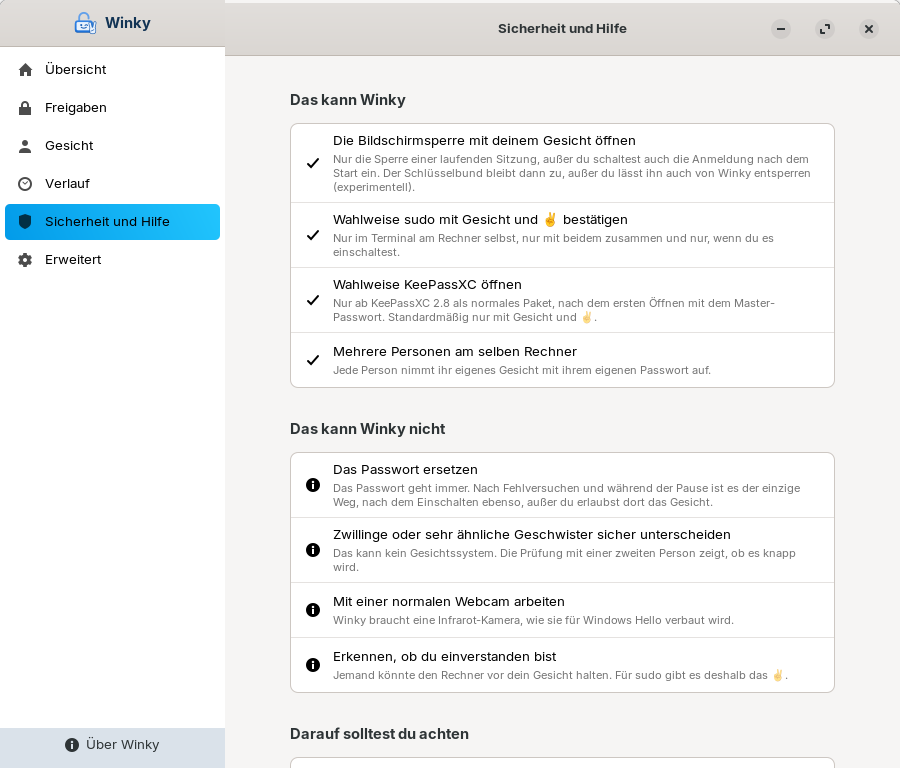
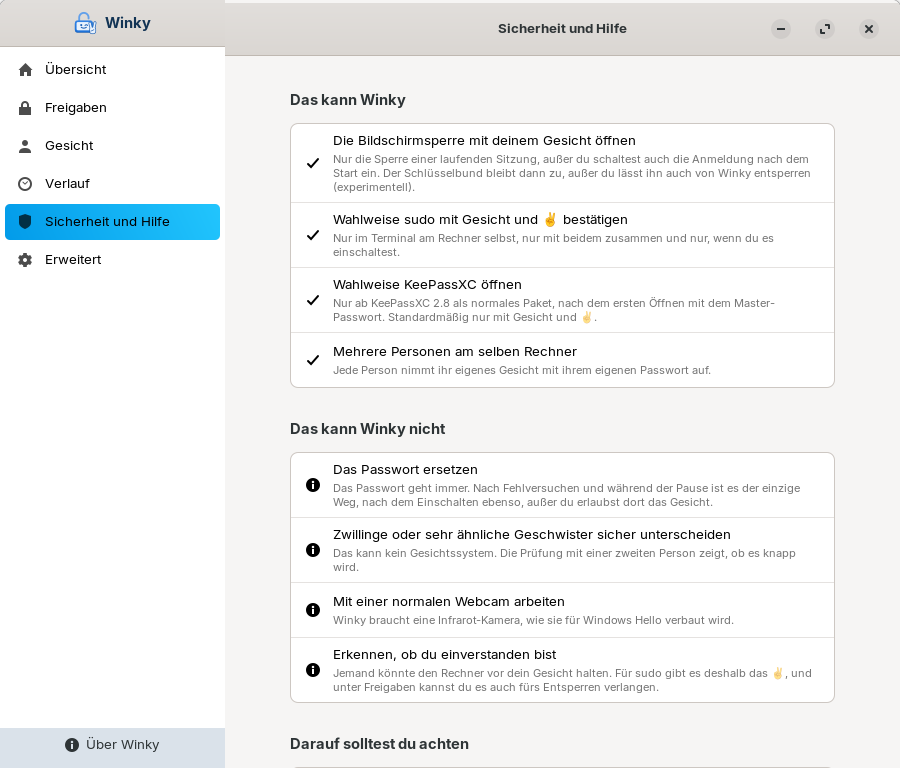
0.13.0: Doku, Versionshinweise, Veröffentlichungsdatum

Changed region(s): [[0.3422, 0.8438, 0.9022, 0.9062], [0.3111, 0.9375, 0.5289, 1.0]]

diff --git a/src/app/gesicht_app.py b/src/app/gesicht_app.py
@@ -1816,7 +1816,7 @@ SICHERHEIT = [
          _("Winky needs an infrared camera, like the ones built in for Windows Hello.")),
         (_("Tell whether you agree"),
          _("Someone could hold the computer up to your face. That’s why sudo also needs the "
-           "✌.")),
+           "✌, and under Unlocks you can require it for unlocking too.")),
     ]),
     (_("What to watch out for"), None, "dialog-warning-symbolic", [
         (_("Lock the screen when you walk away"),

diff --git a/SICHERHEIT.md b/SICHERHEIT.md
@@ -6,7 +6,7 @@ Winky ist ein **Komfort** für die Bildschirmsperre, kein Ersatz für ein gutes 
 keine Festplattenverschlüsselung. Diese Seite beschreibt ehrlich, wogegen Winky schützt,
 wogegen nicht, und welche Risiken in der Benutzung und in der Technik selbst stecken.
 
-Stand: Version 0.11.0. Winky wurde von einer Einzelperson mit KI-Unterstützung entwickelt
+Stand: Version 0.13.0. Winky wurde von einer Einzelperson mit KI-Unterstützung entwickelt
 und ist **nicht unabhängig geprüft**. Die Erkennung wurde an einem Laptop mit einer
 Windows-Hello-Kamera mit der eigenen und einer weiteren Person gemessen und an einem
 Microsoft Surface Laptop 4 ausprobiert.
@@ -33,7 +33,7 @@ Microsoft Surface Laptop 4 ausprobiert.
 | Foto oder Video von dir auf Handy oder Bildschirm | Bildschirme sind im Infrarot-Bild schwarz. In der Messung wurde ein Handyfoto gar nicht als Gesicht erkannt. | geschützt |
 | Ausdruck deines Gesichts, der im Infrarot sichtbar ist, oder eine Maske | Nicht getestet. Winky hat keine echte Lebenderkennung. | **nicht sicher geschützt** |
 | Zwilling oder sehr ähnliches Geschwister | Kein Gesichtssystem unterscheidet das zuverlässig. | **nicht geschützt** |
-| Jemand hält dir den Rechner vors Gesicht oder du schläfst | Winky prüft nicht, ob du einverstanden bist oder die Augen offen hast. | **nicht geschützt** (für sudo hilft das ✌) |
+| Jemand hält dir den Rechner vors Gesicht oder du schläfst | Winky prüft nicht, ob du einverstanden bist oder die Augen offen hast. | ab Werk **nicht geschützt**; geschützt mit „Entsperren nur mit ✌“ (sudo braucht das ✌ immer) |
 | Rechner wird ausgeschaltet gestohlen | Winky spielt keine Rolle. Ohne verschlüsselte Festplatte sind die Daten offen. | Sache der Festplattenverschlüsselung |
 | Rechner wird gesperrt, aber eingeschaltet gestohlen | Der Dieb braucht dein Gesicht (oder siehe Ausdruck/Maske). | wie oben |
 | Fernzugriff (SSH) | Winky ist nicht beteiligt, es gilt das Passwort bzw. der SSH-Schlüssel. | unverändert |
@@ -59,8 +59,9 @@ Das hast du selbst in der Hand:
    Befehle zeigst, die du selbst gerade getippt hast. Erscheint eine Winky-Meldung, die du
    nicht erwartest: kein ✌, einfach ignorieren.
 5. **Erzwungenes Entsperren.** Wer dich zwingen kann, in die Kamera zu schauen, öffnet
-   die Bildschirmsperre. Wo das ein Thema ist, schalte Winky aus (Pause oder
-   Deinstallieren).
+   die Bildschirmsperre. Gegen jemanden, der dir einfach den Rechner vors Gesicht hält,
+   schalte „Entsperren nur mit ✌“ ein. Gegen echten Zwang hilft nur, Winky auszuschalten
+   (Pause oder Deinstallieren).
 6. **KeePassXC mit dem Gesicht.** Standardmäßig verlangt Winky für KeePassXC Gesicht
    **und** ✌, wie bei sudo. Schaltest du das ✌ ab, öffnet dein Gesicht allein die
    Passwort-Datenbank: Wer an deinem entsperrten Rechner auf „Entsperren“ klickt, während
@@ -163,6 +164,11 @@ Das lässt sich durch Bedienung nicht abstellen:
   Socket und logind (lokale, aktive, grafische Sitzung an seat0).
 - **Root-eigene Daten:** Konfiguration, Vorlagen, Schalter und Freigaben werden ohne
   Verknüpfungen geöffnet und auf Besitzer, Rechte und Größe geprüft.
+- **Gesicht ergänzen nur mit dir im Bild:** Eine Ergänzung wird nur gespeichert, wenn Winky
+  dich in der Aufnahme mindestens dreimal an der eingestellten Schwelle erkennt. Bilder, die
+  mehr als 0,20 darunter liegen, werden verworfen; setzt sich zwischendurch jemand anderes vor
+  die Kamera, landet er nicht in deinen Daten. Höchstens drei benannte Ergänzungen mit je bis
+  zu 11 Bildern; die ursprüngliche Aufnahme bleibt immer erhalten.
 - **Fehlversuche:** Nach fünf erkannten, aber fremden Gesichtern bleibt das Gesicht bis zur
   nächsten Passwortanmeldung gesperrt. sudo: nach drei unbestätigten Anfragen zehn Minuten.
 - **Schrittweise Freigabe:** Einschalten erst nach erfolgreichem Test; gesperrt, wenn die

diff --git a/SECURITY.md b/SECURITY.md
@@ -6,7 +6,7 @@ Winky is a **convenience** for the lock screen, not a replacement for a good pas
 disk encryption. This page honestly describes what Winky protects against, what it does not
 protect against, and which risks lie in its use and in the technology itself.
 
-As of version 0.11.0. Winky was developed by one person with AI assistance and has **not been
+As of version 0.13.0. Winky was developed by one person with AI assistance and has **not been
 independently reviewed**. Recognition was measured on one laptop with a Windows Hello
 camera with the owner and one other person, and tried on a Microsoft Surface Laptop 4.
 
@@ -32,7 +32,7 @@ camera with the owner and one other person, and tried on a Microsoft Surface Lap
 | Photo or video of you on a phone or screen | Screens are black in the infrared image. In the measurement, a phone photo was not even detected as a face. | protected |
 | A printout of your face that is visible in infrared, or a mask | Not tested. Winky has no real liveness detection. | **not reliably protected** |
 | Twin or very similar sibling | No face recognition system tells them apart reliably. | **not protected** |
-| Someone holds the computer up to your face, or you are asleep | Winky does not check whether you agree or have your eyes open. | **not protected** (for sudo, the ✌ helps) |
+| Someone holds the computer up to your face, or you are asleep | Winky does not check whether you agree or have your eyes open. | **not protected** by default; protected with “Unlock only with ✌” (sudo always needs the ✌) |
 | Computer is stolen while switched off | Winky plays no role. Without an encrypted disk, the data is open. | a matter for disk encryption |
 | Computer is stolen while locked but switched on | The thief needs your face (or see printout/mask). | as above |
 | Remote access (SSH) | Winky is not involved; the password or SSH key applies. | unchanged |
@@ -57,7 +57,9 @@ This is in your own hands:
    commands you have just typed yourself. If a Winky message appears that you do not
    expect: no ✌, just ignore it.
 5. **Forced unlocking.** Anyone who can force you to look into the camera opens the lock
-   screen. Where that is a concern, turn Winky off (Pause or uninstall).
+   screen. Against someone simply holding the computer up to your face, turn on “Unlock
+   only with ✌”. Against real coercion, nothing helps but turning Winky off (Pause or
+   uninstall).
 6. **KeePassXC with your face.** By default, Winky requires your face **and** ✌ for
    KeePassXC, as with sudo. If you turn off the ✌, your face alone opens the password
    database: anyone who clicks “Unlock” on your unlocked computer while you are sitting in
@@ -157,6 +159,11 @@ These cannot be avoided by how you use Winky:
   socket and logind (local, active, graphical session on seat0).
 - **Root-owned data:** configuration, templates, switches and approvals are opened without
   following links and checked for owner, permissions and size.
+- **Adding to your face only with you in the picture:** An addition is only saved if Winky
+  recognizes you in the recording at least three times at the set threshold. Images more
+  than 0.20 below it are discarded; if someone else sits in front of the camera in between,
+  they don't end up in your data. At most three named additions of up to 11 images each; the
+  original recording always stays.
 - **Failed attempts:** After five faces that were detected but did not match, face unlock
   stays blocked until the next login with password. sudo: ten minutes after three
   unconfirmed requests.

diff --git a/README.de.md b/README.de.md
@@ -27,6 +27,13 @@ zuverlässig erkannt. Geblieben sind das ✌ und der Name.
   zu und fragt nach dem Passwort, sobald ein Programm ihn braucht.
 - **Administrator-Dialoge mit Gesicht und ✌** (freiwillig): etwa
   Updates installieren, ohne das Passwort zu tippen.
+- **Entsperren nur mit ✌** (freiwillig): Dann öffnet dein Gesicht allein weder die
+  Bildschirmsperre noch die Anmeldung nach dem Start, du zeigst zusätzlich ✌. Wer dir den
+  Rechner vors Gesicht hält, kommt so nicht hinein. Ohne ✌ erscheint das Passwortfeld nach
+  höchstens 8 Sekunden.
+- **Gesicht ergänzen** (freiwillig): Erkennt Winky dich manchmal nicht, etwa mit Brille oder
+  bei anderem Licht, nimmst du diesen Anblick als benannte Ergänzung dazu. Höchstens drei,
+  jede lässt sich wieder löschen. Übernommen wird nur, was zu deinem Gesicht passt.
 - **Verlauf:** Im Nachhinein sehen, was Winky entsperrt und freigegeben hat, samt jedem
   sudo-Befehl und ob du ihn bestätigt hast. Praktisch, wenn ein KI-Assistent oder ein Skript
   für dich Befehle mit sudo ausführt.
@@ -66,7 +73,8 @@ zuverlässig erkannt. Geblieben sind das ✌ und der Name.
   nicht, weil Bildschirme im Infrarot-Bild schwarz sind.
 - **Gegen Diebstahl schützen.** Dafür braucht es eine verschlüsselte Festplatte.
 - **Erkennen, ob du einverstanden bist.** Wer dir den Rechner vors Gesicht hält, öffnet die
-  Sperre. Für sudo verlangt Winky deshalb zusätzlich das ✌.
+  Sperre. Für sudo verlangt Winky deshalb zusätzlich das ✌; fürs Entsperren lässt sich
+  „Entsperren nur mit ✌“ einschalten.
 - Mit einer normalen Webcam, mit KDE, Xfce oder einem anderen Anmeldebildschirm als GDM
   arbeiten.
 
@@ -162,6 +170,8 @@ Winky: ✓ bestätigt
 - Nur sudo in einem Terminal der laufenden Sitzung am Rechner selbst. Nicht über SSH, nicht
   ohne Terminal, nicht mit `sudo -S`.
 - Genau ein Gesicht im Bild, die Hand nah daneben, und es muss das erkannte Gesicht sein.
+- ✌ verpasst? Enter ohne Passwort drücken: sudo fragt neu, und Winky wartet noch einmal
+  auf das ✌.
 - Zwei Anfragen zur selben Zeit werden beide abgebrochen. Nach drei unbestätigten gilt
   zehn Minuten lang nur das Passwort.
 - Sonst kommt nach der Zeit für das ✌ (Vorgabe 8 Sekunden, unter Erweitert bis 30

diff --git a/README.md b/README.md
@@ -27,6 +27,12 @@ the name too.
   and asks for the password when a program needs it.
 - **Administrator dialogs with face and ✌** (optional): for example
   installing updates, without typing the password.
+- **Unlock only with ✌** (optional): then your face alone opens neither the lock screen nor
+  the login after startup; you also show ✌. Nobody gets in by holding the computer up to your
+  face. Without a ✌, the password field appears after 8 seconds at most.
+- **Add to your face** (optional): if Winky sometimes doesn’t recognize you, for example with
+  glasses or in different light, record these looks as a named addition. Up to three, each can
+  be deleted again. Only images that match your face are added.
 - **History:** see afterwards what Winky unlocked and approved, including every sudo command
   and whether you confirmed it. Handy when an AI assistant or a script runs commands with sudo
   for you.
@@ -67,7 +73,8 @@ the name too.
   screens are black in the infrared image.
 - **Protect against theft.** That requires an encrypted disk.
 - **Tell whether you agree.** Anyone who holds the computer up to your face opens the lock
-  screen. That is why Winky additionally requires the ✌ for sudo.
+  screen. That is why Winky additionally requires the ✌ for sudo; for unlocking, you can
+  turn on “Unlock only with ✌”.
 - Work with a normal webcam, with KDE, Xfce or a login screen other than GDM.
 
 ## Security risks at a glance
@@ -164,6 +171,8 @@ Winky: ✓ confirmed
   without a terminal, not with `sudo -S`.
 - Exactly one face in the picture, the hand close beside it, and it must be the recognized
   face.
+- Missed the ✌? Press Enter without a password: sudo asks again, and Winky waits for the ✌
+  once more.
 - Two requests at the same time are both cancelled. After three unconfirmed requests, only
   the password works for ten minutes.
 - Otherwise, the usual password prompt appears after the time for the ✌ (8 seconds by

diff --git a/CHANGELOG.md b/CHANGELOG.md
@@ -1,12 +1,16 @@
 # Changes / Änderungen
 
-## 0.13.0 (Prototyp)
+## 0.13.0 (15.10.2026)
 
-- Optional: unlock only with face and ✌ (lock screen and login after startup). Wahlweise nur
-  mit Gesicht und ✌ entsperren (Sperrbildschirm und Anmeldung nach dem Start).
-- Add to your face (glasses, different light) without starting over; only images that match
-  your face are added. Gesicht ergänzen (Brille, anderes Licht), ohne neu anzufangen;
-  übernommen wird nur, was zu deinem Gesicht passt.
+- Optional: unlock only with face and ✌ (lock screen and login after startup), so nobody
+  gets in by holding the computer up to your face. Wahlweise nur mit Gesicht und ✌
+  entsperren (Sperrbildschirm und Anmeldung nach dem Start).
+- Add to your face: named additions such as “With glasses”, up to three, each can be deleted;
+  only images that match your face are added. Gesicht ergänzen: benannte Ergänzungen wie
+  „Mit Brille“, höchstens drei, einzeln löschbar; übernommen wird nur, was zu deinem Gesicht
+  passt.
+- sudo: missed the ✌? Press Enter without a password and Winky asks again; the terminal says
+  so. sudo: ✌ verpasst? Enter ohne Passwort, und Winky fragt noch einmal; das Terminal sagt es.
 
 ## 0.12.0 (13.10.2026)
 
